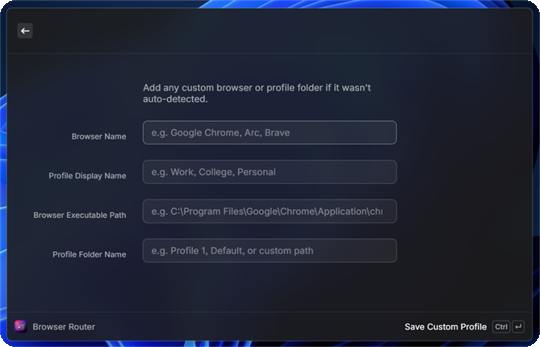
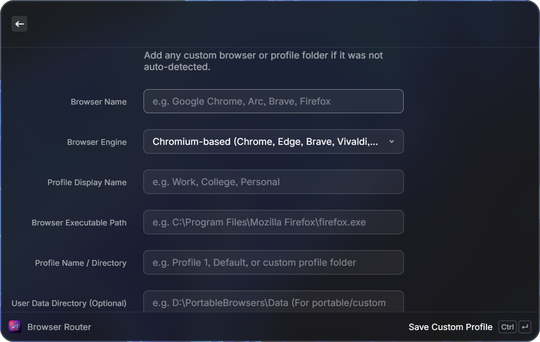
fix(review): address review feedback - update custom profile screenshots to 6 fields, remove unreferenced raw screenshots, and fix privacy shortcut

diff --git a/extensions/browser-router/src/utils/launcher.ts b/extensions/browser-router/src/utils/launcher.ts
@@ -5,6 +5,83 @@ import { spawn } from "child_process";
 import { showToast, Toast, closeMainWindow } from "@raycast/api";
 import { BrowserProfile } from "../types";
 
+function getCleanBrowserEnv(): NodeJS.ProcessEnv {
+  if (process.platform === "win32") {
+    const standardWindowsKeys = new Set([
+      "ALLUSERSPROFILE",
+      "APPDATA",
+      "COMMONPROGRAMFILES",
+      "COMMONPROGRAMFILES(X86)",
+      "COMMONPROGRAMW6432",
+      "COMPUTERNAME",
+      "COMSPEC",
+      "DRIVERDATA",
+      "HOMEDRIVE",
+      "HOMEPATH",
+      "LOCALAPPDATA",
+      "LOGONSERVER",
+      "NUMBER_OF_PROCESSORS",
+      "ONEDRIVE",
+      "OS",
+      "PATH",
+      "PATHEXT",
+      "PROCESSOR_ARCHITECTURE",
+      "PROCESSOR_IDENTIFIER",
+      "PROCESSOR_LEVEL",
+      "PROCESSOR_REVISION",
+      "PROGRAMDATA",
+      "PROGRAMFILES",
+      "PROGRAMFILES(X86)",
+      "PROGRAMW6432",
+      "PSMODULEPATH",
+      "PUBLIC",
+      "SYSTEMDRIVE",
+      "SYSTEMROOT",
+      "TEMP",
+      "TMP",
+      "USERDOMAIN",
+      "USERDOMAIN_ROAMINGPROFILE",
+      "USERNAME",
+      "USERPROFILE",
+      "WINDIR",
+    ]);
+
+    const cleanEnv: NodeJS.ProcessEnv = {};
+    for (const [key, value] of Object.entries(process.env)) {
+      const upperKey = key.toUpperCase();
+      if (
+        standardWindowsKeys.has(upperKey) ||
+        upperKey === "HTTP_PROXY" ||
+        upperKey === "HTTPS_PROXY" ||
+        upperKey === "ALL_PROXY" ||
+        upperKey === "NO_PROXY"
+      ) {
+        cleanEnv[key] = value;
+      }
+    }
+    return cleanEnv;
+  }
+
+  const cleanEnv: NodeJS.ProcessEnv = {};
+  for (const [key, value] of Object.entries(process.env)) {
+    const upperKey = key.toUpperCase();
+    if (
+      upperKey.startsWith("CHROME_") ||
+      upperKey.startsWith("ELECTRON_") ||
+      upperKey.startsWith("VSCODE_") ||
+      upperKey.startsWith("ANTIGRAVITY_") ||
+      upperKey.startsWith("EFC_") ||
+      upperKey.startsWith("FPS_") ||
+      upperKey.startsWith("NODE_") ||
+      upperKey === "ORIGINAL_XDG_CURRENT_DESKTOP"
+    ) {
+      continue;
+    }
+    cleanEnv[key] = value;
+  }
+  return cleanEnv;
+}
+
 export async function launchBrowserProfile(
   profile: BrowserProfile,
   targetUrl?: string,
@@ -104,23 +181,9 @@ export async function launchBrowserProfile(
       }
     }
 
-    // Clean environment to prevent foreign Electron / IDE crashpad variables from polluting browser processes.
-    // Specifically, CHROME_CRASHPAD_PIPE_NAME and ELECTRON_* variables cause Google Chrome
-    // to detect foreign pipe interception, triggering crash-recovery mode and evicting account logins.
-    const cleanEnv: NodeJS.ProcessEnv = {};
-    for (const [key, value] of Object.entries(process.env)) {
-      const upperKey = key.toUpperCase();
-      if (
-        upperKey.startsWith("CHROME_") ||
-        upperKey.startsWith("ELECTRON_") ||
-        upperKey.startsWith("VSCODE_") ||
-        upperKey.startsWith("ANTIGRAVITY_") ||
-        upperKey === "ORIGINAL_XDG_CURRENT_DESKTOP"
-      ) {
-        continue;
-      }
-      cleanEnv[key] = value;
-    }
+    // Clean environment to prevent foreign Electron, IDE, or crashpad variables from polluting browser processes.
+    // An allowlist ensures spawned browsers only receive standard Windows OS environment variables.
+    const cleanEnv = getCleanBrowserEnv();
 
     const child = spawn(profile.executablePath, args, {
       detached: true,

diff --git a/extensions/browser-router/PRIVACY.md b/extensions/browser-router/PRIVACY.md
@@ -11,7 +11,7 @@ Browser Router is engineered with an absolute **privacy-first architecture**. We
 - **Zero Telemetry**: Browser Router collects **no** telemetry, usage metrics, analytics, or behavioral data.
 - **100% Local Execution**: All profile detection, registry inspection, query routing, and browser launching occur entirely on your local Windows machine.
 - **No Access to Sensitive Data**: Browser Router **never** reads or accesses your browsing history, saved passwords, authentication cookies, form autofill, or personal downloads.
-- **Optional Opt-In Feedback**: The only time network traffic is generated is when you explicitly submit a feedback or bug report through the in-app form (<kbd>Ctrl</kbd> + <kbd>F</kbd>).
+- **Optional Opt-In Feedback**: The only time network traffic is generated is when you explicitly submit a feedback or bug report through the in-app form (<kbd>Ctrl</kbd> + <kbd>Shift</kbd> + <kbd>F</kbd>).
 
 ---
 
@@ -85,4 +85,4 @@ Browser Router is completely open source under the permissive [MIT License](LICE
 
 If you have questions, feedback, or security inquiries:
 - **GitHub Issues**: Open an issue or discussion on the official GitHub repository.
-- **In-App Feedback**: Use the built-in feedback tool (<kbd>Ctrl</kbd> + <kbd>F</kbd>).
+- **In-App Feedback**: Use the built-in feedback tool (<kbd>Ctrl</kbd> + <kbd>Shift</kbd> + <kbd>F</kbd>).
